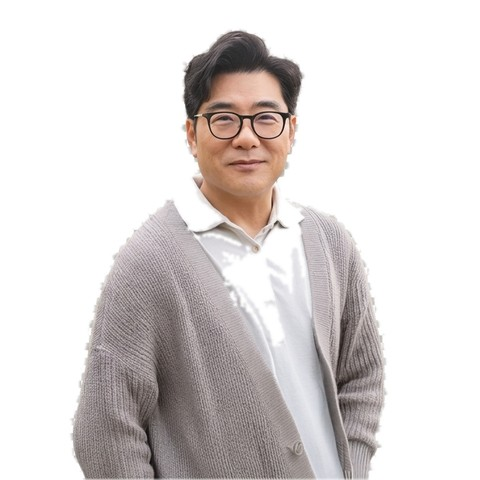
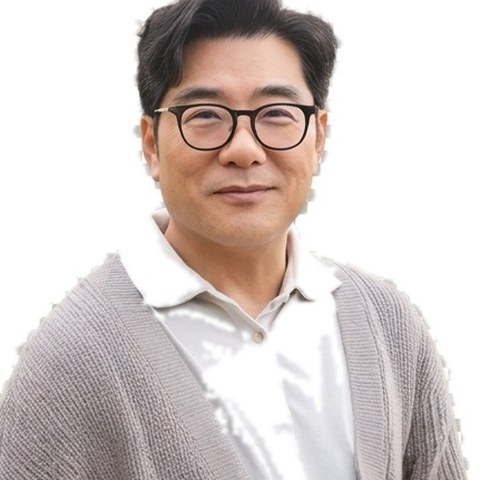
팀소개: 얼굴 사진 크기를 최희돈 사진 기준으로 통일
Claude-Session: https://claude.ai/code/session_01V1f9S3LV422oq6zR2qjKTw

diff --git a/given-ministry-site.html b/given-ministry-site.html
@@ -629,7 +629,7 @@ footer{background:rgba(32,29,50,0.68);backdrop-filter:blur(10px);-webkit-backdro
   <div class="container">
     <span class="label" data-fade="">책임간사 · COORDINATOR</span>
     <div class="card" style="display:flex;gap:32px;align-items:center;flex-wrap:wrap;border-radius:14px;padding:32px;" data-fade="">
-      <img src="./images/director-park-dongjun-480.jpg" alt="박동준 책임간사" style="width:96px;height:96px;border-radius:50%;object-fit:cover;flex-shrink:0;">
+      <img src="./images/director-park-dongjun-480.jpg?v=2" alt="박동준 책임간사" style="width:96px;height:96px;border-radius:50%;object-fit:cover;flex-shrink:0;">
       <div style="flex:1;min-width:200px;">
         <div style="display:flex;align-items:center;gap:8px;margin-bottom:8px;">
           <span style="font-size:10px;letter-spacing:0.2em;color:var(--violet);font-family:'Noto Sans KR',sans-serif;font-weight:300;">COORDINATOR</span>
@@ -655,7 +655,7 @@ footer{background:rgba(32,29,50,0.68);backdrop-filter:blur(10px);-webkit-backdro
     <h2 class="section-title" data-fade="">사역을 함께 <em>이끌어가는</em></h2>
     <div class="grid-4" data-fade="">
       <div class="card" style="text-align:center;">
-        <img src="./images/park-guno-480.jpg" alt="박군오" style="width:72px;height:72px;border-radius:50%;object-fit:cover;margin:0 auto 16px;display:block;">
+        <img src="./images/park-guno-480.jpg?v=2" alt="박군오" style="width:72px;height:72px;border-radius:50%;object-fit:cover;margin:0 auto 16px;display:block;">
         <div style="font-size:16px;font-weight:500;margin-bottom:4px;">박군오</div>
         <div style="font-size:11px;color:var(--amber);letter-spacing:0.1em;font-family:'Noto Sans KR',sans-serif;font-weight:300;margin-bottom:12px;">GUNO Leadership Institute 대표</div>
         <ul style="list-style:none;padding:0;margin:0;text-align:left;display:inline-block;font-size:12px;color:var(--muted);font-weight:300;line-height:1.8;">
@@ -664,7 +664,7 @@ footer{background:rgba(32,29,50,0.68);backdrop-filter:blur(10px);-webkit-backdro
         </ul>
       </div>
       <div class="card" style="text-align:center;">
-        <img src="./images/director-park-dongjun-480.jpg" alt="박동준" style="width:72px;height:72px;border-radius:50%;object-fit:cover;margin:0 auto 16px;display:block;">
+        <img src="./images/director-park-dongjun-480.jpg?v=2" alt="박동준" style="width:72px;height:72px;border-radius:50%;object-fit:cover;margin:0 auto 16px;display:block;">
         <div style="font-size:16px;font-weight:500;margin-bottom:4px;">박동준</div>
         <div style="font-size:11px;color:var(--violet);letter-spacing:0.1em;font-family:'Noto Sans KR',sans-serif;font-weight:300;margin-bottom:12px;">책임간사 · 담임목사</div>
         <ul style="list-style:none;padding:0;margin:0;text-align:left;display:inline-block;font-size:12px;color:var(--muted);font-weight:300;line-height:1.8;">
@@ -673,7 +673,7 @@ footer{background:rgba(32,29,50,0.68);backdrop-filter:blur(10px);-webkit-backdro
         </ul>
       </div>
       <div class="card" style="text-align:center;">
-        <img src="./images/bang-younggyu-480.jpg?v=2" alt="방영규" style="width:72px;height:72px;border-radius:50%;object-fit:cover;margin:0 auto 16px;display:block;">
+        <img src="./images/bang-younggyu-480.jpg?v=3" alt="방영규" style="width:72px;height:72px;border-radius:50%;object-fit:cover;margin:0 auto 16px;display:block;">
         <div style="font-size:16px;font-weight:500;margin-bottom:4px;">방영규</div>
         <div style="font-size:11px;color:var(--blue);letter-spacing:0.1em;font-family:'Noto Sans KR',sans-serif;font-weight:300;margin-bottom:12px;">대전산성침례교회 담임목사</div>
         <ul style="list-style:none;padding:0;margin:0;text-align:left;display:inline-block;font-size:12px;color:var(--muted);font-weight:300;line-height:1.8;">

diff --git a/team.html b/team.html
@@ -60,7 +60,7 @@
   <div class="container">
     <span class="label" data-fade="">책임간사 · COORDINATOR</span>
     <div class="card" style="display:flex;gap:32px;align-items:center;flex-wrap:wrap;border-radius:14px;padding:32px;" data-fade="">
-      <img src="./images/director-park-dongjun-480.jpg" alt="박동준 책임간사" style="width:96px;height:96px;border-radius:50%;object-fit:cover;flex-shrink:0;">
+      <img src="./images/director-park-dongjun-480.jpg?v=2" alt="박동준 책임간사" style="width:96px;height:96px;border-radius:50%;object-fit:cover;flex-shrink:0;">
       <div style="flex:1;min-width:200px;">
         <div style="display:flex;align-items:center;gap:8px;margin-bottom:8px;">
           <span style="font-size:10px;letter-spacing:0.2em;color:var(--violet);font-family:'Noto Sans KR',sans-serif;font-weight:300;">COORDINATOR</span>
@@ -86,7 +86,7 @@
     <h2 class="section-title" data-fade="">사역을 함께 <em>이끌어가는</em></h2>
     <div class="grid-4" data-fade="">
       <div class="card" style="text-align:center;">
-        <img src="./images/park-guno-480.jpg" alt="박군오" style="width:72px;height:72px;border-radius:50%;object-fit:cover;margin:0 auto 16px;display:block;">
+        <img src="./images/park-guno-480.jpg?v=2" alt="박군오" style="width:72px;height:72px;border-radius:50%;object-fit:cover;margin:0 auto 16px;display:block;">
         <div style="font-size:16px;font-weight:500;margin-bottom:4px;">박군오</div>
         <div style="font-size:11px;color:var(--amber);letter-spacing:0.1em;font-family:'Noto Sans KR',sans-serif;font-weight:300;margin-bottom:12px;">GUNO Leadership Institute 대표</div>
         <ul style="list-style:none;padding:0;margin:0;text-align:left;display:inline-block;font-size:12px;color:var(--muted);font-weight:300;line-height:1.8;">
@@ -95,7 +95,7 @@
         </ul>
       </div>
       <div class="card" style="text-align:center;">
-        <img src="./images/director-park-dongjun-480.jpg" alt="박동준" style="width:72px;height:72px;border-radius:50%;object-fit:cover;margin:0 auto 16px;display:block;">
+        <img src="./images/director-park-dongjun-480.jpg?v=2" alt="박동준" style="width:72px;height:72px;border-radius:50%;object-fit:cover;margin:0 auto 16px;display:block;">
         <div style="font-size:16px;font-weight:500;margin-bottom:4px;">박동준</div>
         <div style="font-size:11px;color:var(--violet);letter-spacing:0.1em;font-family:'Noto Sans KR',sans-serif;font-weight:300;margin-bottom:12px;">책임간사 · 담임목사</div>
         <ul style="list-style:none;padding:0;margin:0;text-align:left;display:inline-block;font-size:12px;color:var(--muted);font-weight:300;line-height:1.8;">
@@ -104,7 +104,7 @@
         </ul>
       </div>
       <div class="card" style="text-align:center;">
-        <img src="./images/bang-younggyu-480.jpg?v=2" alt="방영규" style="width:72px;height:72px;border-radius:50%;object-fit:cover;margin:0 auto 16px;display:block;">
+        <img src="./images/bang-younggyu-480.jpg?v=3" alt="방영규" style="width:72px;height:72px;border-radius:50%;object-fit:cover;margin:0 auto 16px;display:block;">
         <div style="font-size:16px;font-weight:500;margin-bottom:4px;">방영규</div>
         <div style="font-size:11px;color:var(--blue);letter-spacing:0.1em;font-family:'Noto Sans KR',sans-serif;font-weight:300;margin-bottom:12px;">대전산성침례교회 담임목사</div>
         <ul style="list-style:none;padding:0;margin:0;text-align:left;display:inline-block;font-size:12px;color:var(--muted);font-weight:300;line-height:1.8;">
